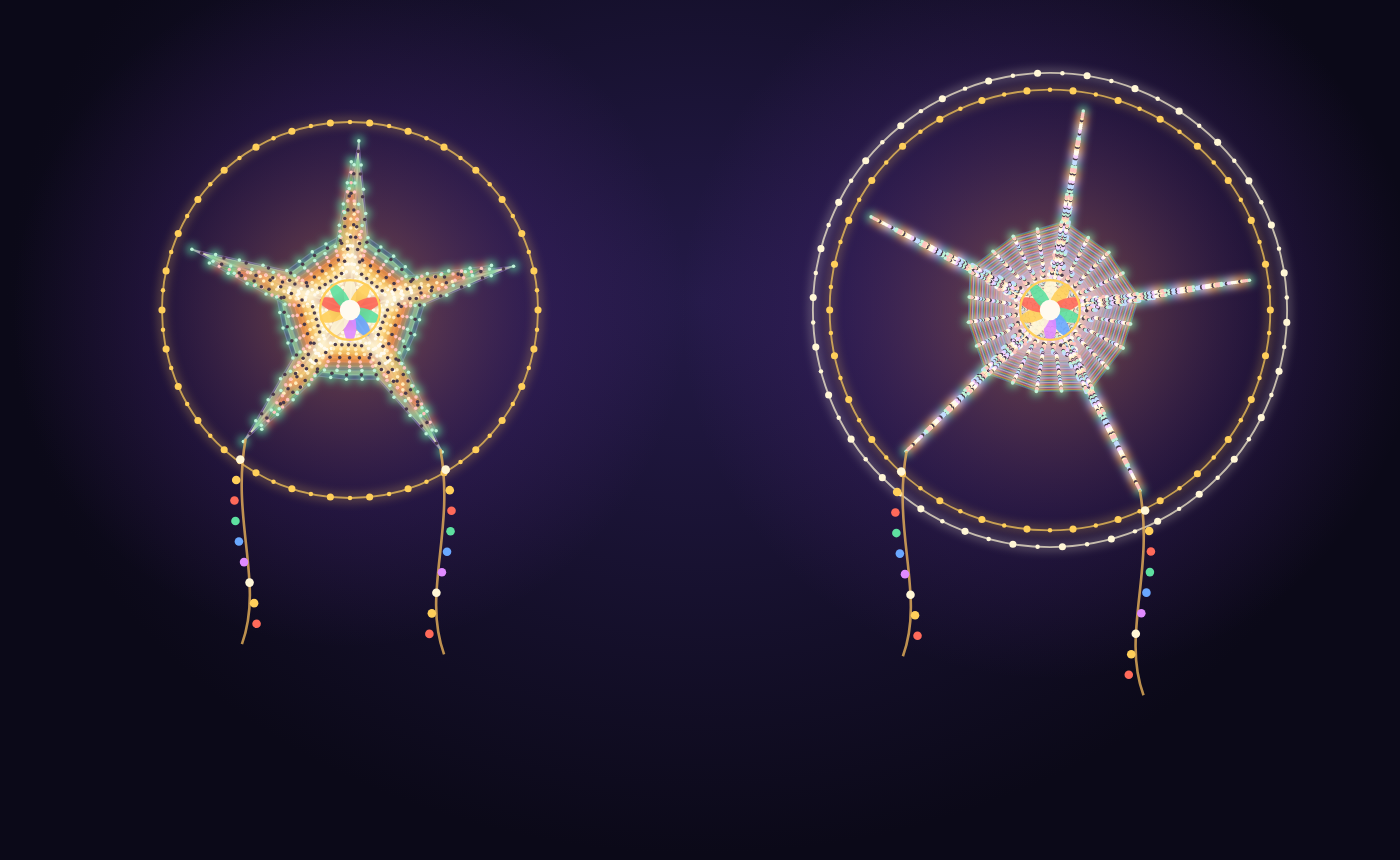
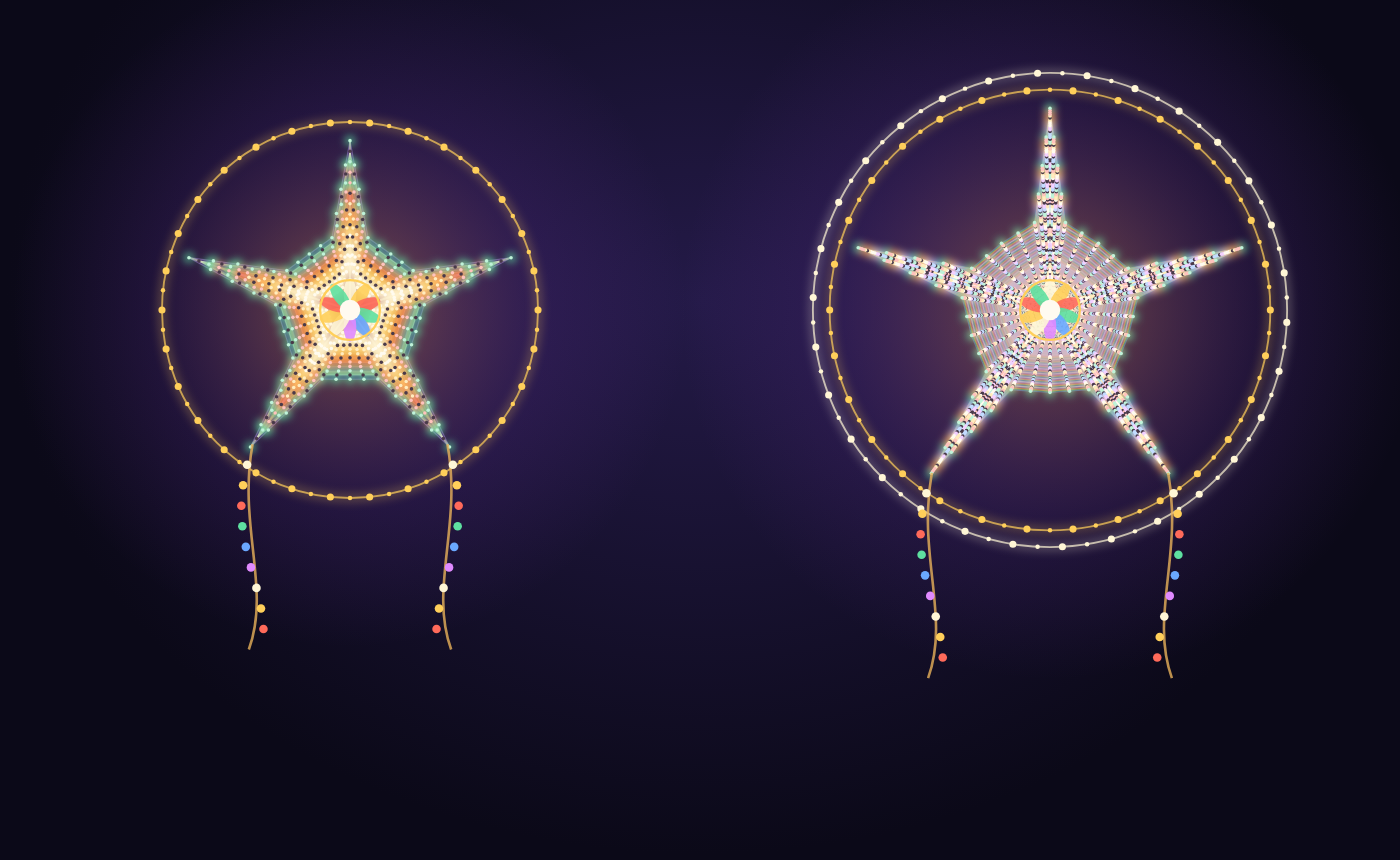
Keep the parol a parol at any size: upright layers, points never spikes
Two drawing choices broke the silhouette as rings stacked. Each miss turned the star by half its error, and
turned layers piled into a ten-pointed web; each ring was drawn at the run's point width, and since a run
ends when its points are too thin, every long run finished as a spiky asterisk. Now every ring is drawn
upright (the spinning ring too, so a perfect tap still lines up) and its points are eased from 36° down to
20° as the width falls to 8°. The gauge still shows the true width; rules, scores and replays are unchanged.
The design lab shows the parol before and after, and the giant lantern now stays a bold five-pointed star.

Changed region(s): [[0.5836, 0.1209, 0.9214, 0.786], [0.1229, 0.1512, 0.3686, 0.7558]]

diff --git a/src/draw/geometry.ts b/src/draw/geometry.ts
@@ -30,12 +30,28 @@ export const starPath = (ring: number, width: number, rotation: number) => {
 
 export type DrawnRing = { index: number; width: number; rotation: number; perfect: boolean }
 
-/** Each locked ring's shape, replayed from the lock errors under the rules. */
+/** The narrowest points a ring is drawn with: the run's width still thins the star, but never into spikes. */
+export const DRAWN_MIN_WIDTH = 20
+
+/**
+ * How wide a ring's points are drawn for the run's `width`: eased from the full 36° down to 20° as the width
+ * falls to the 8° minimum. A run ends when its points are too thin, so drawn as they are, every long run would
+ * finish as a spiky asterisk; eased, it stays a parol. The gauge still shows the true width.
+ */
+export const drawnWidth = (width: number, rules: Rules = RULES) =>
+  DRAWN_MIN_WIDTH + (rules.startWidth - DRAWN_MIN_WIDTH) * Math.max(0, Math.min(1, (width - rules.minWidth) / (rules.startWidth - rules.minWidth)))
+
+/**
+ * Each locked ring's shape, replayed from the lock errors under the rules. Every ring is drawn upright
+ * (rotation 0): the run's turn from off-angle locks is a drawing choice, and turned layers piled up into a
+ * ten-pointed web that no longer looked like a parol. The spinning ring is drawn upright too, so a perfect tap
+ * still lines up with the star.
+ */
 export const drawnRings = (locks: number[], rules: Rules = RULES): DrawnRing[] => {
   let run = startRun(rules)
   return locks.map((error, index) => {
     run = lock(run, error, rules)
-    return { index, width: run.width, rotation: run.rotation, perfect: Math.abs(error) <= rules.perfectWithin + 1e-9 }
+    return { index, width: drawnWidth(run.width, rules), rotation: 0, perfect: Math.abs(error) <= rules.perfectWithin + 1e-9 }
   })
 }
 

diff --git a/scripts/draw.test.ts b/scripts/draw.test.ts
@@ -1,16 +1,23 @@
 import assert from 'node:assert/strict'
 import { test } from 'node:test'
-import { drawnRings, radii, starPath } from '../src/draw/geometry.ts'
+import { DRAWN_MIN_WIDTH, drawnRings, drawnWidth, radii, starPath } from '../src/draw/geometry.ts'
 import { createEngine, nextAlignmentMs, tap } from '../src/game/engine.ts'
 
-test('the star is drawn from the engine’s locks: same widths and turns, perfects marked', () => {
+test('the star is drawn from the engine’s locks: upright, points eased, perfects marked', () => {
   let engine = createEngine(7)
   for (const degrees of [0, 6, 0, 0, 0, 0, 0, -4]) engine = tap(engine, nextAlignmentMs(engine) + (degrees / engine.ring.speed) * 1000)
   const rings = drawnRings(engine.locks)
   assert.equal(rings.length, engine.run.rings)
-  assert.ok(Math.abs(rings[rings.length - 1].width - engine.run.width) < 1e-9)
-  assert.ok(Math.abs(rings[rings.length - 1].rotation - engine.run.rotation) < 1e-9)
+  assert.ok(Math.abs(rings[rings.length - 1].width - drawnWidth(engine.run.width)) < 1e-9)
+  assert.ok(rings.every((r) => r.rotation === 0))
   assert.deepEqual(rings.map((r) => r.perfect), [true, false, true, true, true, true, true, false])
+})
+
+test('points are drawn from 36° down to 20°, never spikes, while the width still shows', () => {
+  assert.equal(drawnWidth(36), 36)
+  assert.equal(drawnWidth(8), DRAWN_MIN_WIDTH)
+  assert.equal(drawnWidth(2), DRAWN_MIN_WIDTH)
+  assert.ok(drawnWidth(30) > drawnWidth(20) && drawnWidth(20) > drawnWidth(12))
 })
 
 test('each ring is a larger copy of the same five-pointed outline', () => {

diff --git a/mockups/parol.tsx b/mockups/parol.tsx
@@ -326,7 +326,7 @@ function Papel({ size, locks }: { size: number; locks: number[] }) {
 /* ── The page ──────────────────────────────────────────────────────────────────────────────────────────────── */
 
 const ROWS: { id: string; title: string; note: string; Draw: (p: { size: number; locks: number[] }) => ReactNode }[] = [
-  { id: 'today', title: 'Today', note: 'Gets worse as it grows: thin spikes, washed-out colour, tails and bulbs shrink away.', Draw: ({ size, locks }) => <Star size={size} locks={locks} palette={PAL} /> },
+  { id: 'today', title: 'Today', note: 'Now upright, points never under 20° (geometry.ts): a clean star at every size, but late in a run colour still fades and tails shrink.', Draw: ({ size, locks }) => <Star size={size} locks={locks} palette={PAL} /> },
   { id: 'ilaw', title: 'A · Ilaw', note: 'Today’s parol made luminous: a lamp inside, fading frame, glowing rim; tails, bulbs and halo keep their size.', Draw: Ilaw },
   { id: 'sampernandu', title: 'B · Parul Sampernandu', note: 'The giant lantern: rows of bulbs on every ring like a rotor, deep vinyl colours, bulb rosette, stacked halos.', Draw: Sampernandu },
   { id: 'papel', title: 'C · Papel', note: 'The handmade parol: papel de Hapon crinkle, cut fringe, bamboo spokes, long fringed paper tails.', Draw: Papel },
